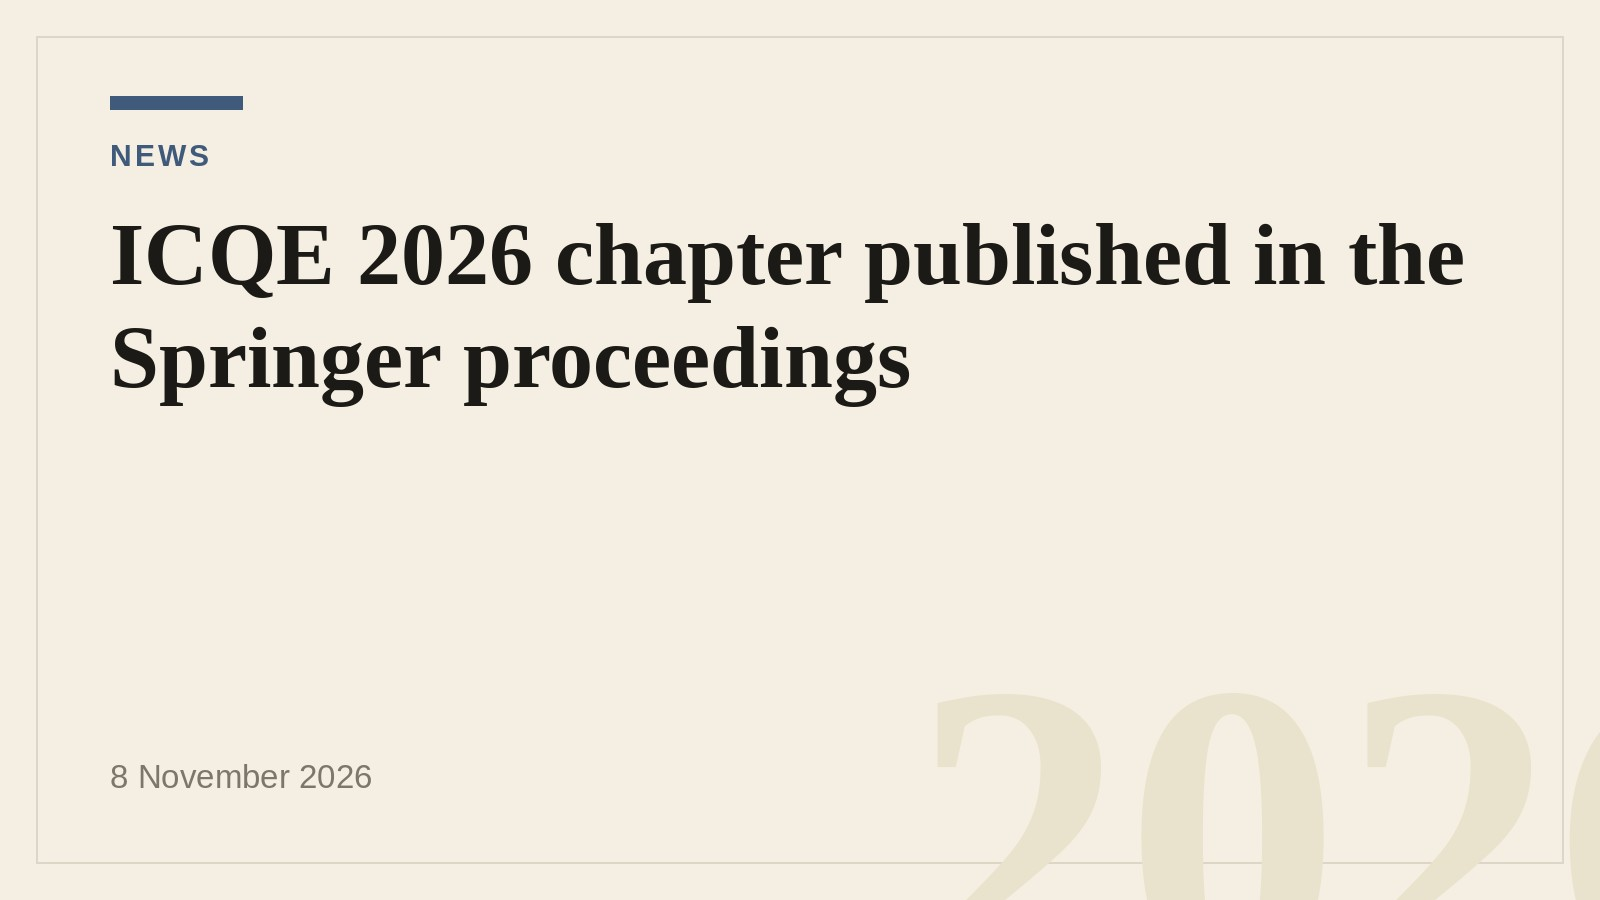
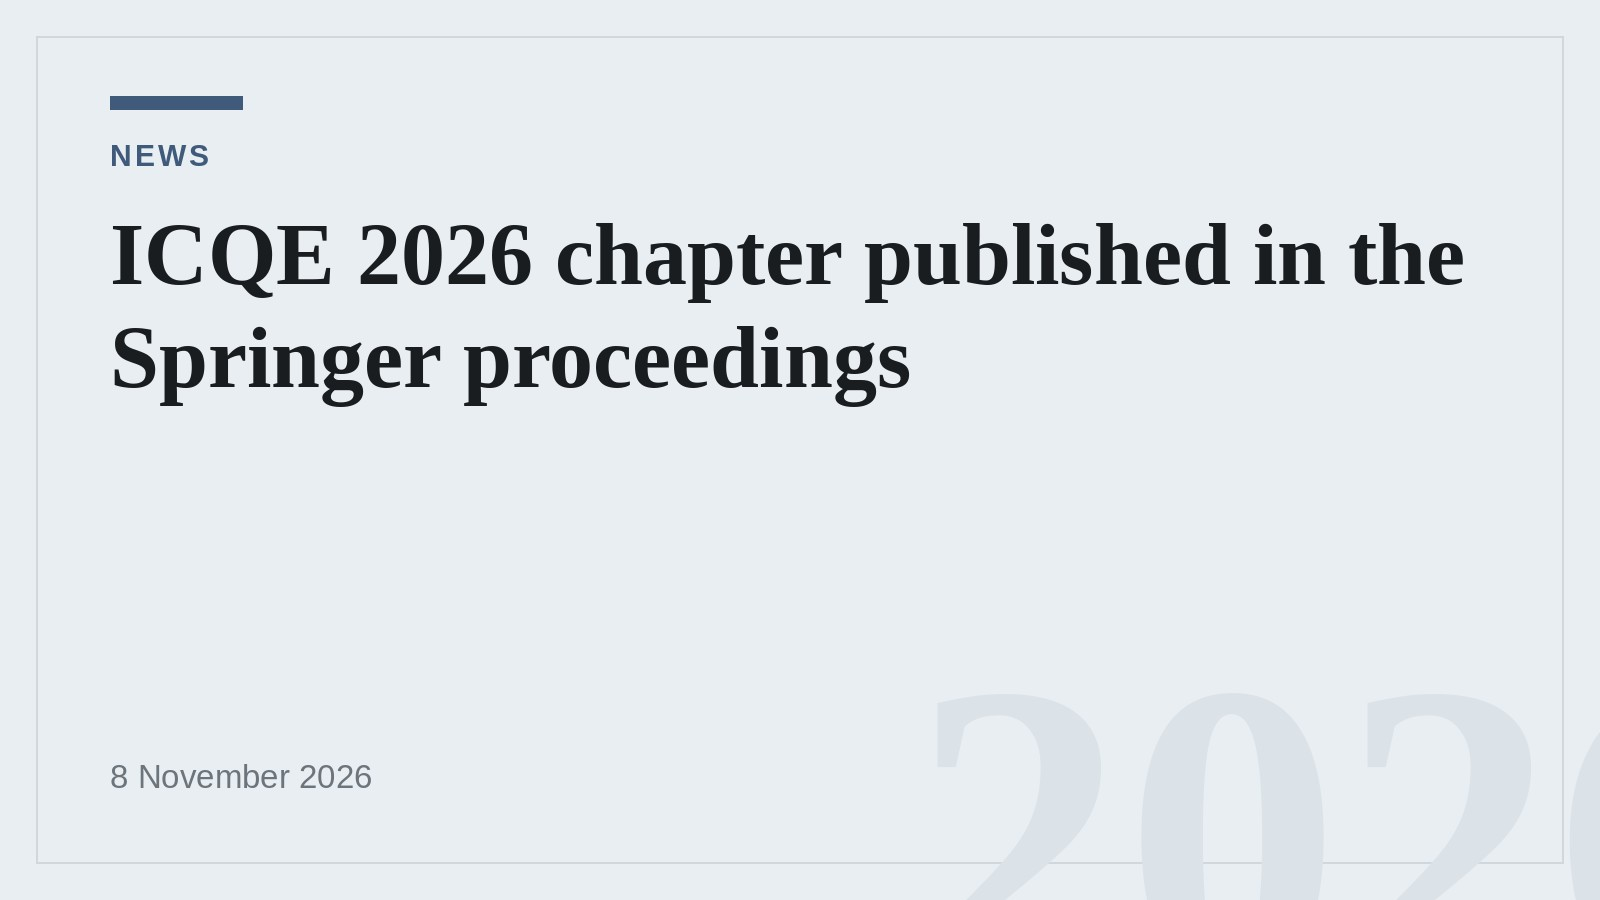
Light mode: switch paper from warm ivory to moon white (#f2f5f7), cool the neutrals, regenerate covers on the cool tint, soften map sepia

Changed region(s): [[0.5625, 0.7467, 1.0, 1.0]]

diff --git a/assets/css/custom.css b/assets/css/custom.css
@@ -5,9 +5,11 @@
    specific theme elements it restyles; there are no global resets and no
    img/canvas rules, so embedded content (e.g. the Leaflet map on /impact/)
    is untouched.
-   v5 palette: muted ink blue (#3f5a7a family) instead of the vivid #1d4ed8,
-   warm paper surfaces, warm grays. The --v3-* variable names are kept from
-   the v3 layer; their values are the v5 ones.
+   v5 palette: muted ink blue (#3f5a7a family) instead of the vivid #1d4ed8.
+   Light surfaces: moon white (#f2f5f7, a pale blue-white) with blue-grey
+   neutrals (switched from warm ivory after v5 review: the cream read as
+   too Anthropic). Dark mode keeps its warm charcoal. The --v3-* variable
+   names are kept from the v3 layer; their values are the current ones.
    ========================================================================== */
 
 :root {
@@ -15,12 +17,12 @@
   --v3-accent-2: #7d94b3;
   --v3-glow: rgba(63, 90, 122, .18);
   --v3-beam: rgba(63, 90, 122, .50);
-  --v3-line: rgba(28, 26, 23, .10);
-  --v3-card: #fffdf9;
-  --v3-card-line: rgba(28, 26, 23, .09);
-  --v3-text-2: #57534a;
-  --v3-text-3: #a49d8f;
-  --v3-shadow: 0 1px 2px rgba(28, 26, 23, .05), 0 12px 32px -12px rgba(28, 26, 23, .14);
+  --v3-line: rgba(26, 29, 32, .10);
+  --v3-card: #fcfdfe;
+  --v3-card-line: rgba(26, 29, 32, .09);
+  --v3-text-2: #5a636b;
+  --v3-text-3: #9aa4ab;
+  --v3-shadow: 0 1px 2px rgba(26, 29, 32, .05), 0 12px 32px -12px rgba(26, 29, 32, .14);
 }
 .dark {
   --v3-accent: #93a9c4;
@@ -38,13 +40,13 @@
 ::selection { background: var(--v3-accent); color: #fff; }
 
 /* ---------- glassy sticky header ---------- */
-.page-header { border-bottom: 1px solid rgba(28, 26, 23, .08); }
+.page-header { border-bottom: 1px solid rgba(26, 29, 32, .08); }
 .dark .page-header { border-bottom-color: rgba(255, 255, 255, .08); }
 #site-header.header {
-  background-color: rgba(250, 248, 244, .82);
+  background-color: rgba(242, 245, 247, .82);
   -webkit-backdrop-filter: blur(14px) saturate(1.6);
   backdrop-filter: blur(14px) saturate(1.6);
-  box-shadow: 0 1px 2px rgba(28, 26, 23, .05), 0 12px 32px -16px rgba(28, 26, 23, .18);
+  box-shadow: 0 1px 2px rgba(26, 29, 32, .05), 0 12px 32px -16px rgba(26, 29, 32, .18);
 }
 .dark #site-header.header {
   background-color: rgba(23, 21, 18, .72);
@@ -401,14 +403,14 @@
    pack; setting them on body overrides them page-wide, because every
    consumer of these variables lives inside body and a custom property set
    on an element shadows the inherited value for that element and its
-   descendants. Light mode: warm ivory paper with warm near-black text.
-   Dark mode: deep warm charcoal instead of blue-slate.
+   descendants. Light mode: moon-white paper (#f2f5f7) with blue-grey
+   near-black text. Dark mode: deep warm charcoal instead of blue-slate.
    ========================================================================== */
 body {
-  --hb-color-background: #faf8f4;
-  --hb-color-foreground: #1c1a17;
-  --hb-color-footer-bg: #f2eee3;
-  --hb-color-footer-fg: #1c1a17;
+  --hb-color-background: #f2f5f7;
+  --hb-color-foreground: #1a1d20;
+  --hb-color-footer-bg: #e9eef1;
+  --hb-color-footer-fg: #1a1d20;
 }
 .dark body {
   --hb-color-background: #171512;

diff --git a/layouts/_partials/hbx/blocks/citation-impact/block.html b/layouts/_partials/hbx/blocks/citation-impact/block.html
@@ -58,10 +58,10 @@
   .dark .ci-card h3 { color: #f9fafb; }
   .ci-card p.ci-sub { font-size: .88rem; color: #8a94a3; margin-bottom: 1rem; }
   #ci-map { height: 480px; border-radius: .75rem; overflow: hidden; background: #eef1f5; z-index: 0; }
-  /* Mute the Esri basemap so it sits with the site's warm paper + ink-blue
-     restraint. Only the tile pane is filtered: markers, pulses and popups
-     live in other Leaflet panes and stay full color. */
-  #ci-map .leaflet-tile-pane { filter: grayscale(1) sepia(0.18) brightness(1.04) contrast(0.94); }
+  /* Mute the Esri basemap so it sits with the site's moon-white paper +
+     ink-blue restraint. Only the tile pane is filtered: markers, pulses
+     and popups live in other Leaflet panes and stay full color. */
+  #ci-map .leaflet-tile-pane { filter: grayscale(1) sepia(0.06) brightness(1.04) contrast(0.94); }
   .dark #ci-map .leaflet-tile-pane { filter: grayscale(1) sepia(0.12) brightness(0.8) contrast(0.95); }
   .ci-chart-wrap { height: 320px; position: relative; }
   .ci-note { font-size: .8rem; color: #8a94a3; margin-top: .8rem; line-height: 1.55; }
